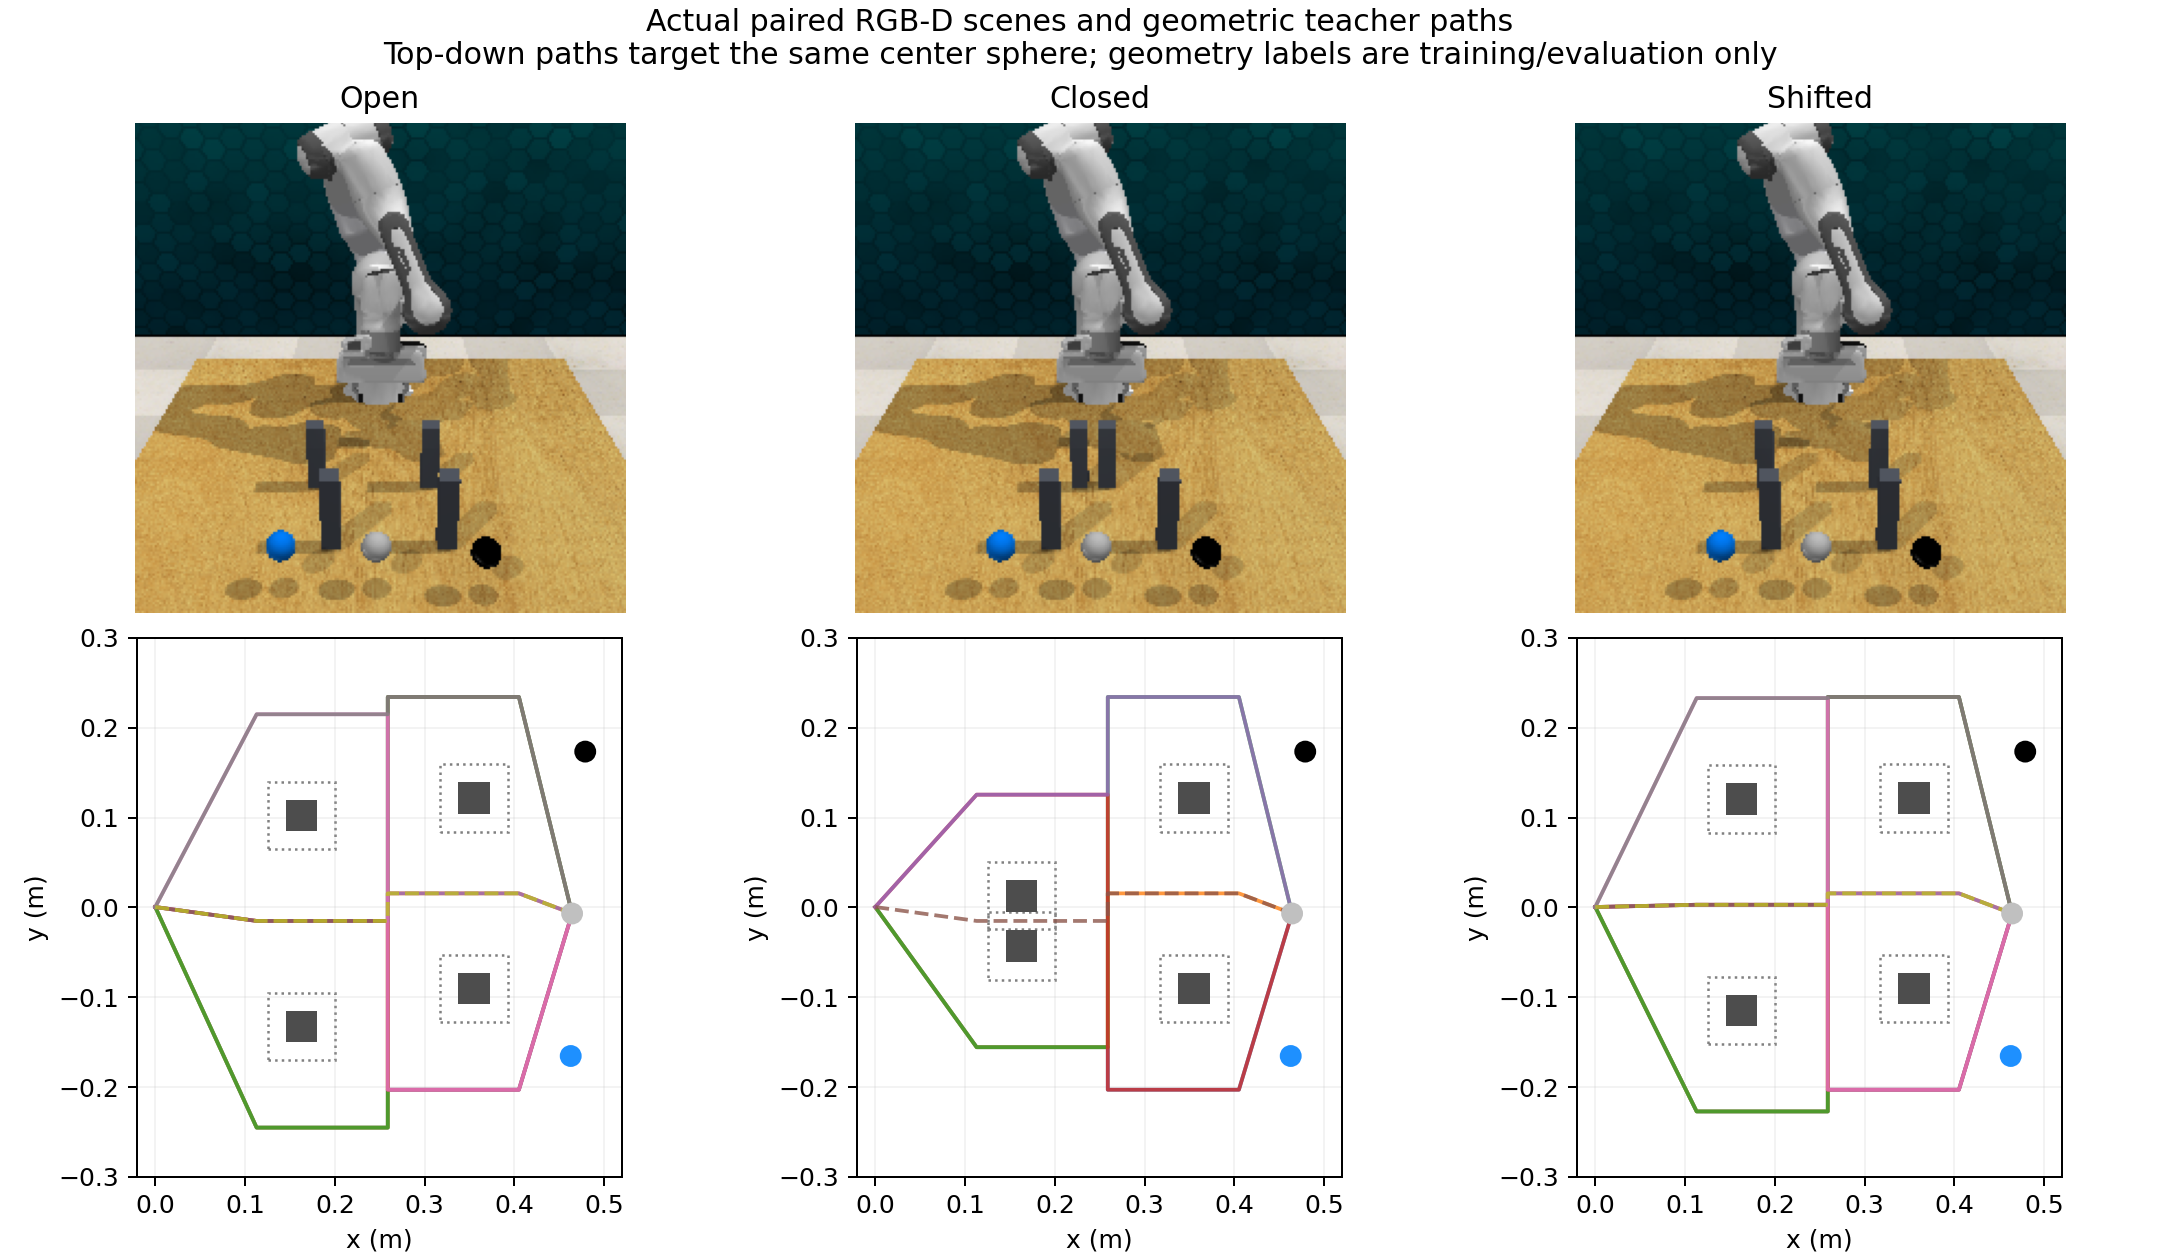
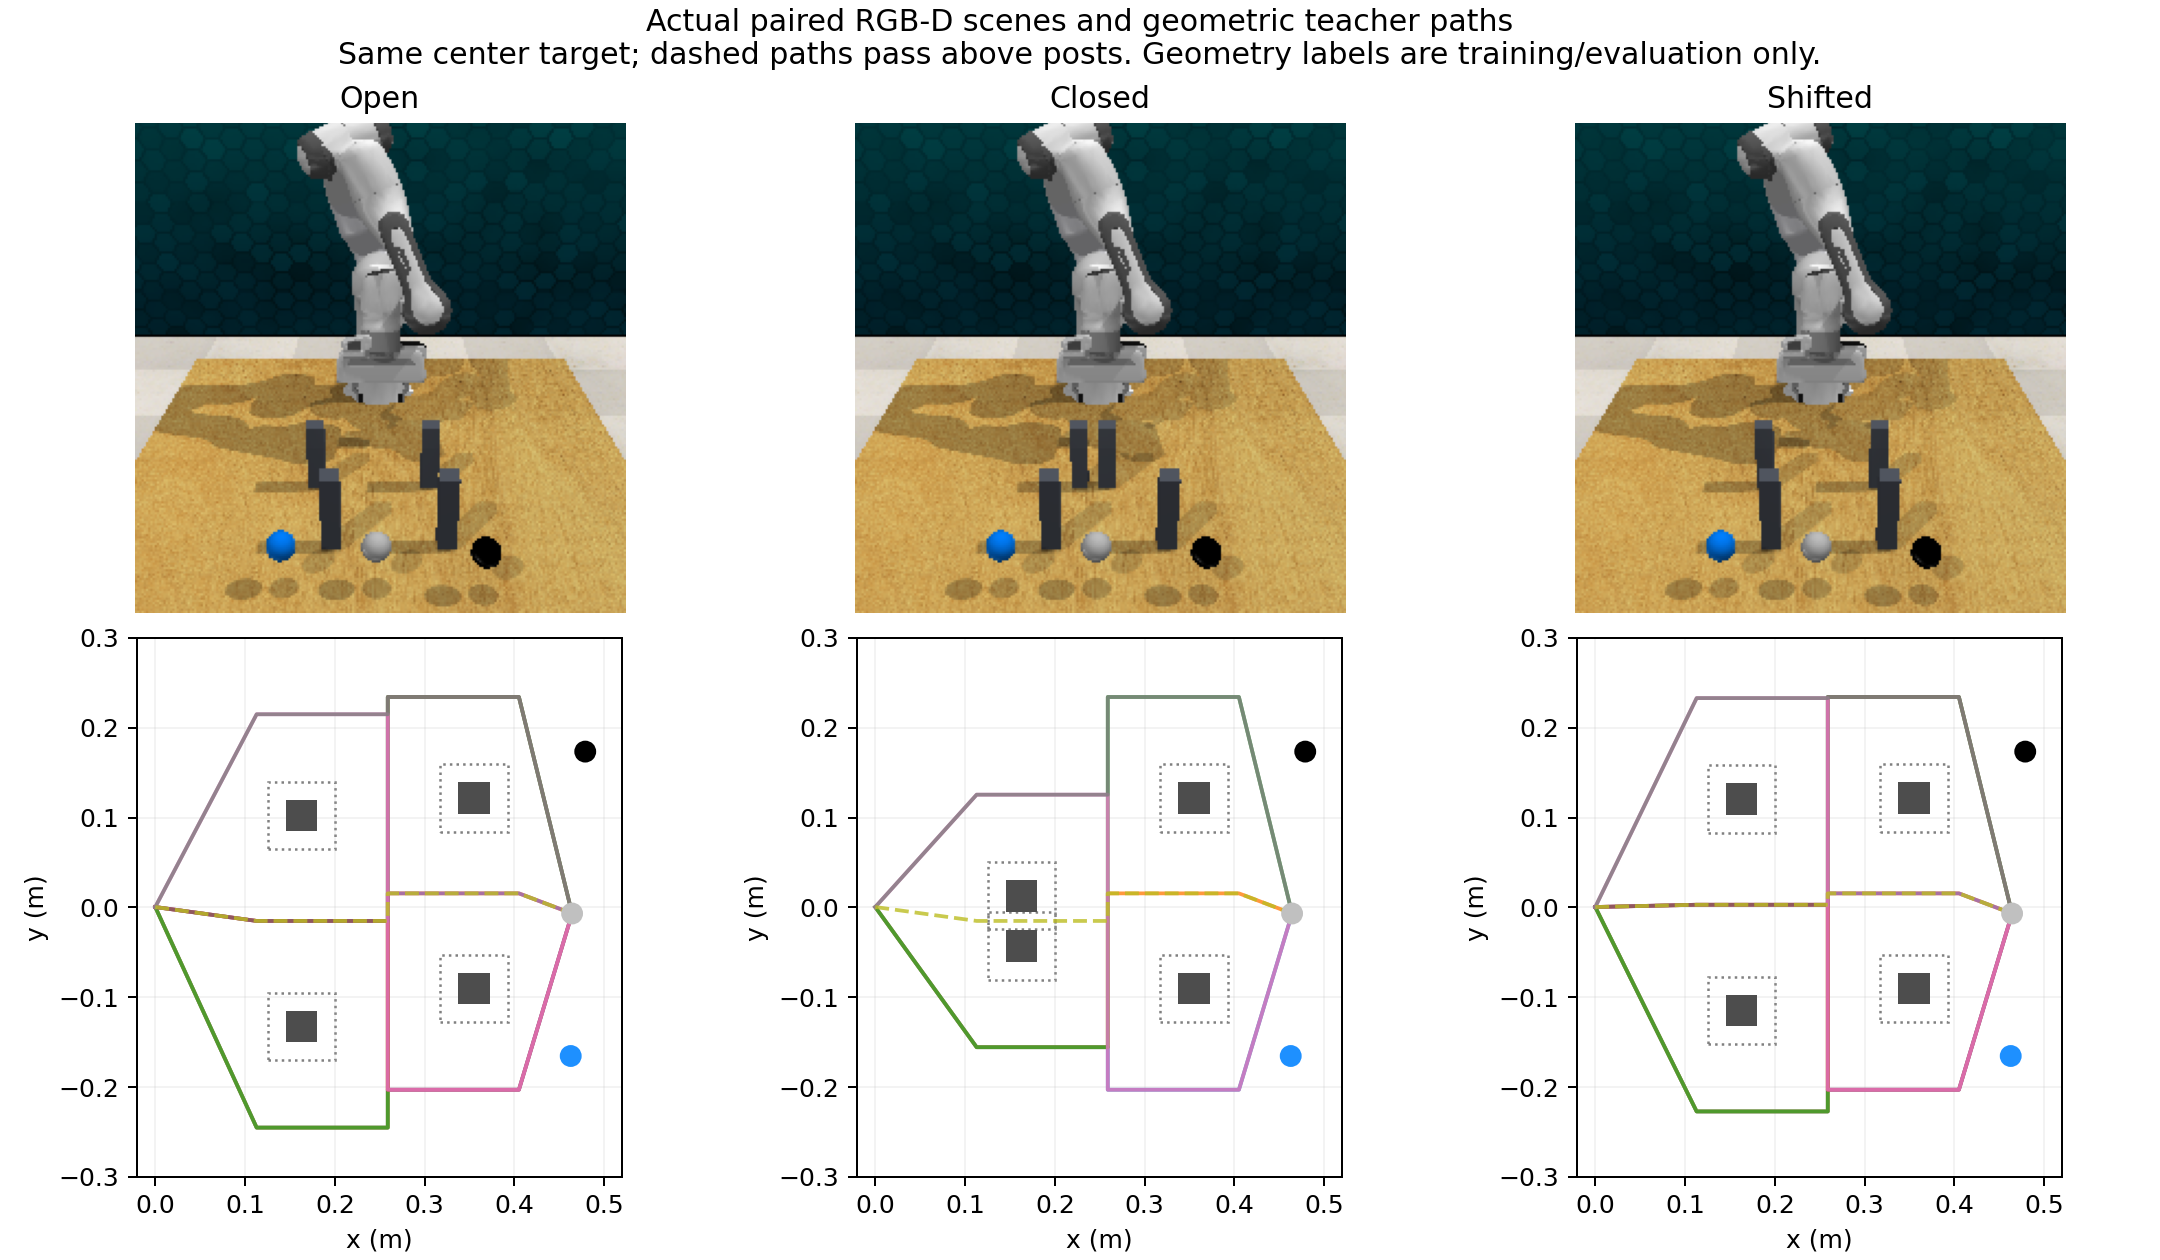
Match shared routes relative to deforming passage boundaries

diff --git a/scripts/analyze_paired_modes.py b/scripts/analyze_paired_modes.py
@@ -1,0 +1,85 @@
+"""Compare sealed pools, with family-level uncertainty and explicit negatives."""
+import argparse
+from pathlib import Path
+import numpy as np
+from scripts.run_observed_probability import read,write
+from scripts.paired_modes_data import RUN
+
+
+def family_metrics(rows):
+    groups={}
+    for r in rows:
+        values=dict(valid=r['K']['8']['ValidCount']/8,modes=r['K']['8']['GeometricModeCount'],
+            two_distinct=r['K']['8']['TwoDistinctValid'],coverage=r['K']['8']['ReferenceModeCoverage'],
+            q_top1=r['K']['1']['ValidCount'],goal_failure=np.mean([not c['semantic_goal_correct'] for c in r['candidates']]),
+            collision=np.mean([not c['tip_segments_clear'] for c in r['candidates']]))
+        groups.setdefault(r['parent'],[]).append(values)
+    return {p:{k:float(np.mean([v[k] for v in items if v[k] is not None])) for k in items[0]} for p,items in groups.items()}
+
+
+def comparison(a,b):
+    assert set(a)==set(b);parents=sorted(a);rng=np.random.default_rng(20261005)
+    indices=rng.integers(len(parents),size=(10000,len(parents)))
+    return {k:dict(delta=float(np.mean(d)),CI95=np.percentile(d[indices].mean(1),[2.5,97.5]).tolist())
+        for k in next(iter(a.values())) for d in [np.array([b[p][k]-a[p][k] for p in parents])]}
+
+
+def analyze(arms,seeds,output):
+    output=Path(output);output.mkdir(parents=True,exist_ok=False)
+    results={};families={};allrows={};paired={}
+    for split in ('paired_dev','old_dev','dev32'):
+        for seed in seeds:
+            for arm in arms:
+                folder=RUN/'evaluation'/split/('%s_seed%d'%(arm,seed))
+                if not (folder/'RESULTS.json').exists():continue
+                key='%s/%s/seed%d'%(split,arm,seed);summary=read(folder/'RESULTS.json');rows=read(folder/'rows.json')
+                families[key]=family_metrics(rows);allrows[key]=rows
+                results[key]={k:float(np.mean([r[k] for r in families[key].values()])) for k in next(iter(families[key].values()))}
+                if split=='paired_dev':paired[key]=summary['paired']['metrics']
+    comparisons={}
+    for split in ('paired_dev','old_dev','dev32'):
+        for a,b in zip(arms[:-1],arms[1:]):
+            for seed in seeds:
+                ka,kb=['%s/%s/seed%d'%(split,x,seed) for x in (a,b)]
+                if ka in families and kb in families:comparisons[kb+' minus '+ka]=comparison(families[ka],families[kb])
+            # Average generator seeds within family, then family bootstrap.
+            if all('%s/%s/seed%d'%(split,x,s) in families for x in (a,b) for s in seeds):
+                means=[]
+                for arm in (a,b):
+                    first=families['%s/%s/seed%d'%(split,arm,seeds[0])]
+                    means.append({p:{k:float(np.mean([families['%s/%s/seed%d'%(split,arm,s)][p][k] for s in seeds])) for k in first[p]} for p in first})
+                comparisons[split+'/'+b+' minus '+a+'/mean_seeds']=comparison(*means)
+    gate=None
+    if all('paired_dev/'+a+'/seed0' in results for a in ('R0','R1','R2')):
+        a,b,c=[results['paired_dev/'+a+'/seed0'] for a in ('R0','R1','R2')]
+        p1,p2=[paired['paired_dev/'+a+'/seed0'] for a in ('R1','R2')]
+        conditions=dict(modes_above_R0=c['modes']>a['modes'],modes_above_R1=c['modes']>b['modes'],
+            shared_recall_above_R1=p2['shared_recall']>p1['shared_recall'],validity_loss_at_most_02=c['valid']>=b['valid']-.02)
+        gate=dict(passed=all(conditions.values()),conditions=conditions)
+    negatives={}
+    for key,rows in allrows.items():
+        negatives[key]=dict(zero_valid=[r['id'] for r in rows if r['K']['8']['ValidCount']==0],
+            all_goal_failed=[r['id'] for r in rows if all(not c['semantic_goal_correct'] for c in r['candidates'])],
+            at_most_one_mode=[r['id'] for r in rows if r['K']['8']['GeometricModeCount']<=1])
+    # Exposures must match across arms for each seed.
+    stream={}
+    for seed in seeds:
+        states={arm:read(RUN/('%s_seed%d'%(arm,seed))/'summary.json') for arm in arms if (RUN/('%s_seed%d'%(arm,seed))/'summary.json').exists()}
+        if not states:continue
+        streams={r['sampler']['index_chain_sha256'] for r in states.values()};initial={r['initial_sha256'] for r in states.values()}
+        assert len(streams)==len(initial)==1,'Unequal training exposure/initialization'
+        stream[str(seed)]=dict(arms=list(states),sampler_sha256=next(iter(streams)),initial_sha256=next(iter(initial)))
+    write(output/'RESULTS.json',dict(results=results,paired=paired,comparisons=comparisons,seed0_gate=gate,negatives=negatives,stream_identity=stream,
+        uncertainty_scope='Family bootstrap conditional on the trained seeds; not a confidence interval over all random initializations.'))
+    lines=['# Paired route-set comparison','','All numbers use sealed, unrepaired M8 outputs. DEV is development evidence.','',
+           '| split / arm / seed | valid % | modes | reference coverage % | goal fail % | collision % | frozen q top1 % |',
+           '|---|---:|---:|---:|---:|---:|---:|']
+    for key,r in results.items():lines.append('|%s|%.2f|%.3f|%.2f|%.2f|%.2f|%.2f|'%(key,100*r['valid'],r['modes'],100*r['coverage'],100*r['goal_failure'],100*r['collision'],100*r['q_top1']))
+    lines.extend(['','Seed0 continuation gate: `'+str(gate)+'`.','','Family bootstrap results, all failed requests and input-stream identities are saved in RESULTS.json.'])
+    (output/'TABLE.md').write_text('\n'.join(lines)+'\n',encoding='utf-8')
+    print(__import__('json').dumps(dict(results=results,paired=paired,seed0_gate=gate)),flush=True)
+
+
+if __name__=='__main__':
+    p=argparse.ArgumentParser();p.add_argument('--arms',nargs='+',default=['R0','R1','R2']);p.add_argument('--seeds',nargs='+',type=int,default=[0]);p.add_argument('--output',required=True)
+    a=p.parse_args();analyze(a.arms,a.seeds,a.output)

diff --git a/routeset/paired_modes.py b/routeset/paired_modes.py
@@ -51,12 +51,30 @@ def relation_cost(paths, config, modes):
             +(value-limits[None,:,:,1]).clamp_min(0).square()).sum(-1).mean(-1)
 
 
-def mode_descriptor(paths, config):
-    crossing=row_crossings(paths,config['row_x'])
-    offset=paths.new_tensor([[np.mean(ys),config['post_base_z']+h]
-                           for ys,h in zip(config['post_y'],config['post_heights'])])
-    # Translation-relative, metric descriptor: no path-coordinate equality.
-    return crossing-offset[None]
+def mode_descriptor(paths, config, modes):
+    """One mode per selected path, relative to its own passage boundaries.
+
+    Exterior passages track signed clearance from the corresponding inflated
+    obstacle edge, not row-center coordinates. Interior gaps use a normalized
+    lateral fraction scaled by a fixed .15m canonical width. Thus changing
+    obstacle spacing permits the shared route to deform without pair penalty.
+    """
+    crossing=row_crossings(paths,config['row_x']);offsets=[];scales=[]
+    for mode in modes:
+        off=[];scale=[]
+        for r,label in enumerate(mode):
+            ys=config['post_y'][r];top=config['post_base_z']+config['post_heights'][r]
+            factor=1.
+            if label=='over':center=float(np.mean(ys))
+            elif label=='gap0':center=ys[0]-.0375
+            elif int(label[3:])==len(ys):center=ys[-1]+.0375
+            else:
+                j=int(label[3:]);lo=ys[j-1]+.0375;hi=ys[j]-.0375
+                if hi<=lo:raise ValueError('Closed relation cannot be a shared positive witness')
+                center=(lo+hi)/2;factor=.15/(hi-lo)
+            off.append([center,top]);scale.append([factor,1.])
+        offsets.append(off);scales.append(scale)
+    return (crossing-paths.new_tensor(offsets))*paths.new_tensor(scales)
 
 
 def within_scene_loss(paths, configs, modes):
@@ -78,8 +96,8 @@ def partial_pair_loss(paths, configs, modes, pairs):
         # Partial matching: only shared, positively witnessed relation classes.
         # Deleted/new/unknown classes have no edge and are learned per-scene.
         ia=ca.detach().argmin(0);ib=cb.detach().argmin(0)
-        da=mode_descriptor(paths[a],configs[a])[ia]
-        db=mode_descriptor(paths[b],configs[b])[ib]
+        da=mode_descriptor(paths[a][ia],configs[a],common)
+        db=mode_descriptor(paths[b][ib],configs[b],common)
         values.append((da-db).square().mean())
         matched+=len(common)
     return (torch.stack(values).mean() if values else paths.sum()*0),matched

diff --git a/scripts/plot_paired_pilot.py b/scripts/plot_paired_pilot.py
@@ -24,9 +24,10 @@ def plot(root,output):
         for file in sorted(scene.glob('target1_route*.npz')):
             with np.load(file) as a:path=a['gripper_pose'][:,:3]
             above=bool(np.max(path[:,2])>.91)
-            ax.plot(path[:,0],path[:,1],ls='--' if above else '-',alpha=.8,lw=1.5)
+            slot=int(file.stem.rsplit('route',1)[1])
+            ax.plot(path[:,0],path[:,1],color=plt.get_cmap('tab10')(slot),ls='--' if above else '-',alpha=.8,lw=1.5)
         ax.set(xlabel='x (m)',ylabel='y (m)',xlim=(-.02,.52),ylim=(-.3,.3));ax.set_aspect('equal');ax.grid(alpha=.15)
-    fig.suptitle('Actual paired RGB-D scenes and geometric teacher paths\nTop-down paths target the same center sphere; geometry labels are training/evaluation only',fontsize=12)
+    fig.suptitle('Actual paired RGB-D scenes and geometric teacher paths\nSame center target; dashed paths pass above posts. Geometry labels are training/evaluation only.',fontsize=12)
     output.parent.mkdir(parents=True,exist_ok=True);fig.savefig(output,dpi=180);plt.close(fig)
 
 

diff --git a/tests/test_paired_modes_loss.py b/tests/test_paired_modes_loss.py
@@ -34,6 +34,18 @@ def test_partial_correspondence_ignores_unmatched_and_allows_translation():
     assert n==0 and float(loss)==0
 
 
+def test_shared_exterior_modes_can_deform_when_gap_closes():
+    plans=registration()['parent_plan'][:2];paths=[];modes=[]
+    for plan in plans:
+        slots=[s for s in plan['guide_plans'][0] if s['collection_allowed']]
+        x=torch.tensor([np.vstack([plan['config']['entry_xyz'],s['waypoints_supervision_only']]).tolist() for s in slots],dtype=torch.float64)
+        paths.append(x);modes.append([tuple(s['intent_supervision_only']) for s in slots])
+    loss,n=partial_pair_loss(paths,[p['config'] for p in plans],modes,[(0,1)])
+    assert n>0 and float(loss)<1e-12
+    # The routes really deform: shared outer passage y coordinates differ.
+    assert not torch.equal(paths[0][0],paths[1][0])
+
+
 def test_relation_loss_has_correct_nonzero_finite_difference_gradient():
     x,c,m=example();x=x[:1].clone();x[...,1]+=.11;x.requires_grad_(True)
     f=lambda v: relation_cost(v,c,[m[0]]).sum()

diff --git a/reports/paired_modes_v1/METHOD.md b/reports/paired_modes_v1/METHOD.md
@@ -16,9 +16,9 @@ R0 使用普通集合路线回归、目标观测注意力监督及连续段 clea
 
 设一条预测路线在障碍排平面的首次正向交点为 c_r(τ)=(y,z)。每个有参考证据的走法 m 在每排对应一个低位通道区间，或高于障碍的区域。距离 d_s(τ,m) 为交点到这些区域的平方距离之和。单场景关系损失为预测到参考走法、参考走法到预测的双向最小距离均值；它不要求查询编号有固定语义。
 
-对配对场景 a,b，只对两边都有有效参考的走法交集 C 建边。对每个 m∈C，分别选择最接近该走法的预测 i_a(m),i_b(m)，比较两条路线的排内相对交点描述 φ：y 减该排柱中心均值，z 减该排柱顶部。跨场景损失为这些描述的均方差。匹配索引停止梯度，描述保留梯度。消失、新增和未知走法没有跨场景边，仍接受单场景正样本回归。
+对配对场景 a,b，只对两边都有有效参考的走法交集 C 建边。对每个 m∈C，分别选择最接近该走法的预测 i_a(m),i_b(m)，比较相对各自通道的交点描述 φ。外侧通道使用 y 到对应膨胀障碍边界的有符号距离；内部通道使用相对通道中点的坐标，除以可通行宽度后乘固定0.15m；上方走法使用相对该排中心的 y。z 减该排柱顶部。这样柱间距改变时，外侧共享走法可以随边界变形。跨场景损失为这些描述的均方差。匹配索引停止梯度，描述保留梯度。消失、新增和未知走法没有跨场景边，仍接受单场景正样本回归。
 
-这是按已知关系类别的部分最近对应，不是全局一对一最优传输，不应在论文中称作最优传输或完整同伦分解。描述只去除了排内平移和高度偏移，没有保证对任意障碍变形不变；这一局限应由变形实验与负例检验。
+这是按已知关系类别的部分最近对应，不是全局一对一最优传输，不应在论文中称作最优传输或完整同伦分解。描述支持所定义通道的平移、宽度和边界位置变化，没有保证对任意非轴对齐障碍或拓扑重构不变；这一局限应由变形实验与负例检验。首版以排中心为基准的实现会惩罚合理宽度变形，已在任何正式训练和 DEV 模型评价之前通过通道边界版本修正。
 
 两项新增损失的系数通过四个固定 TRAIN 批次的参数梯度范数确定，使各自初始梯度范数约为原目标的20%；不使用 DEV 扫参。数据采样随机数与损失内部采样随机数分开，保证各组输入曝光相同。
 
